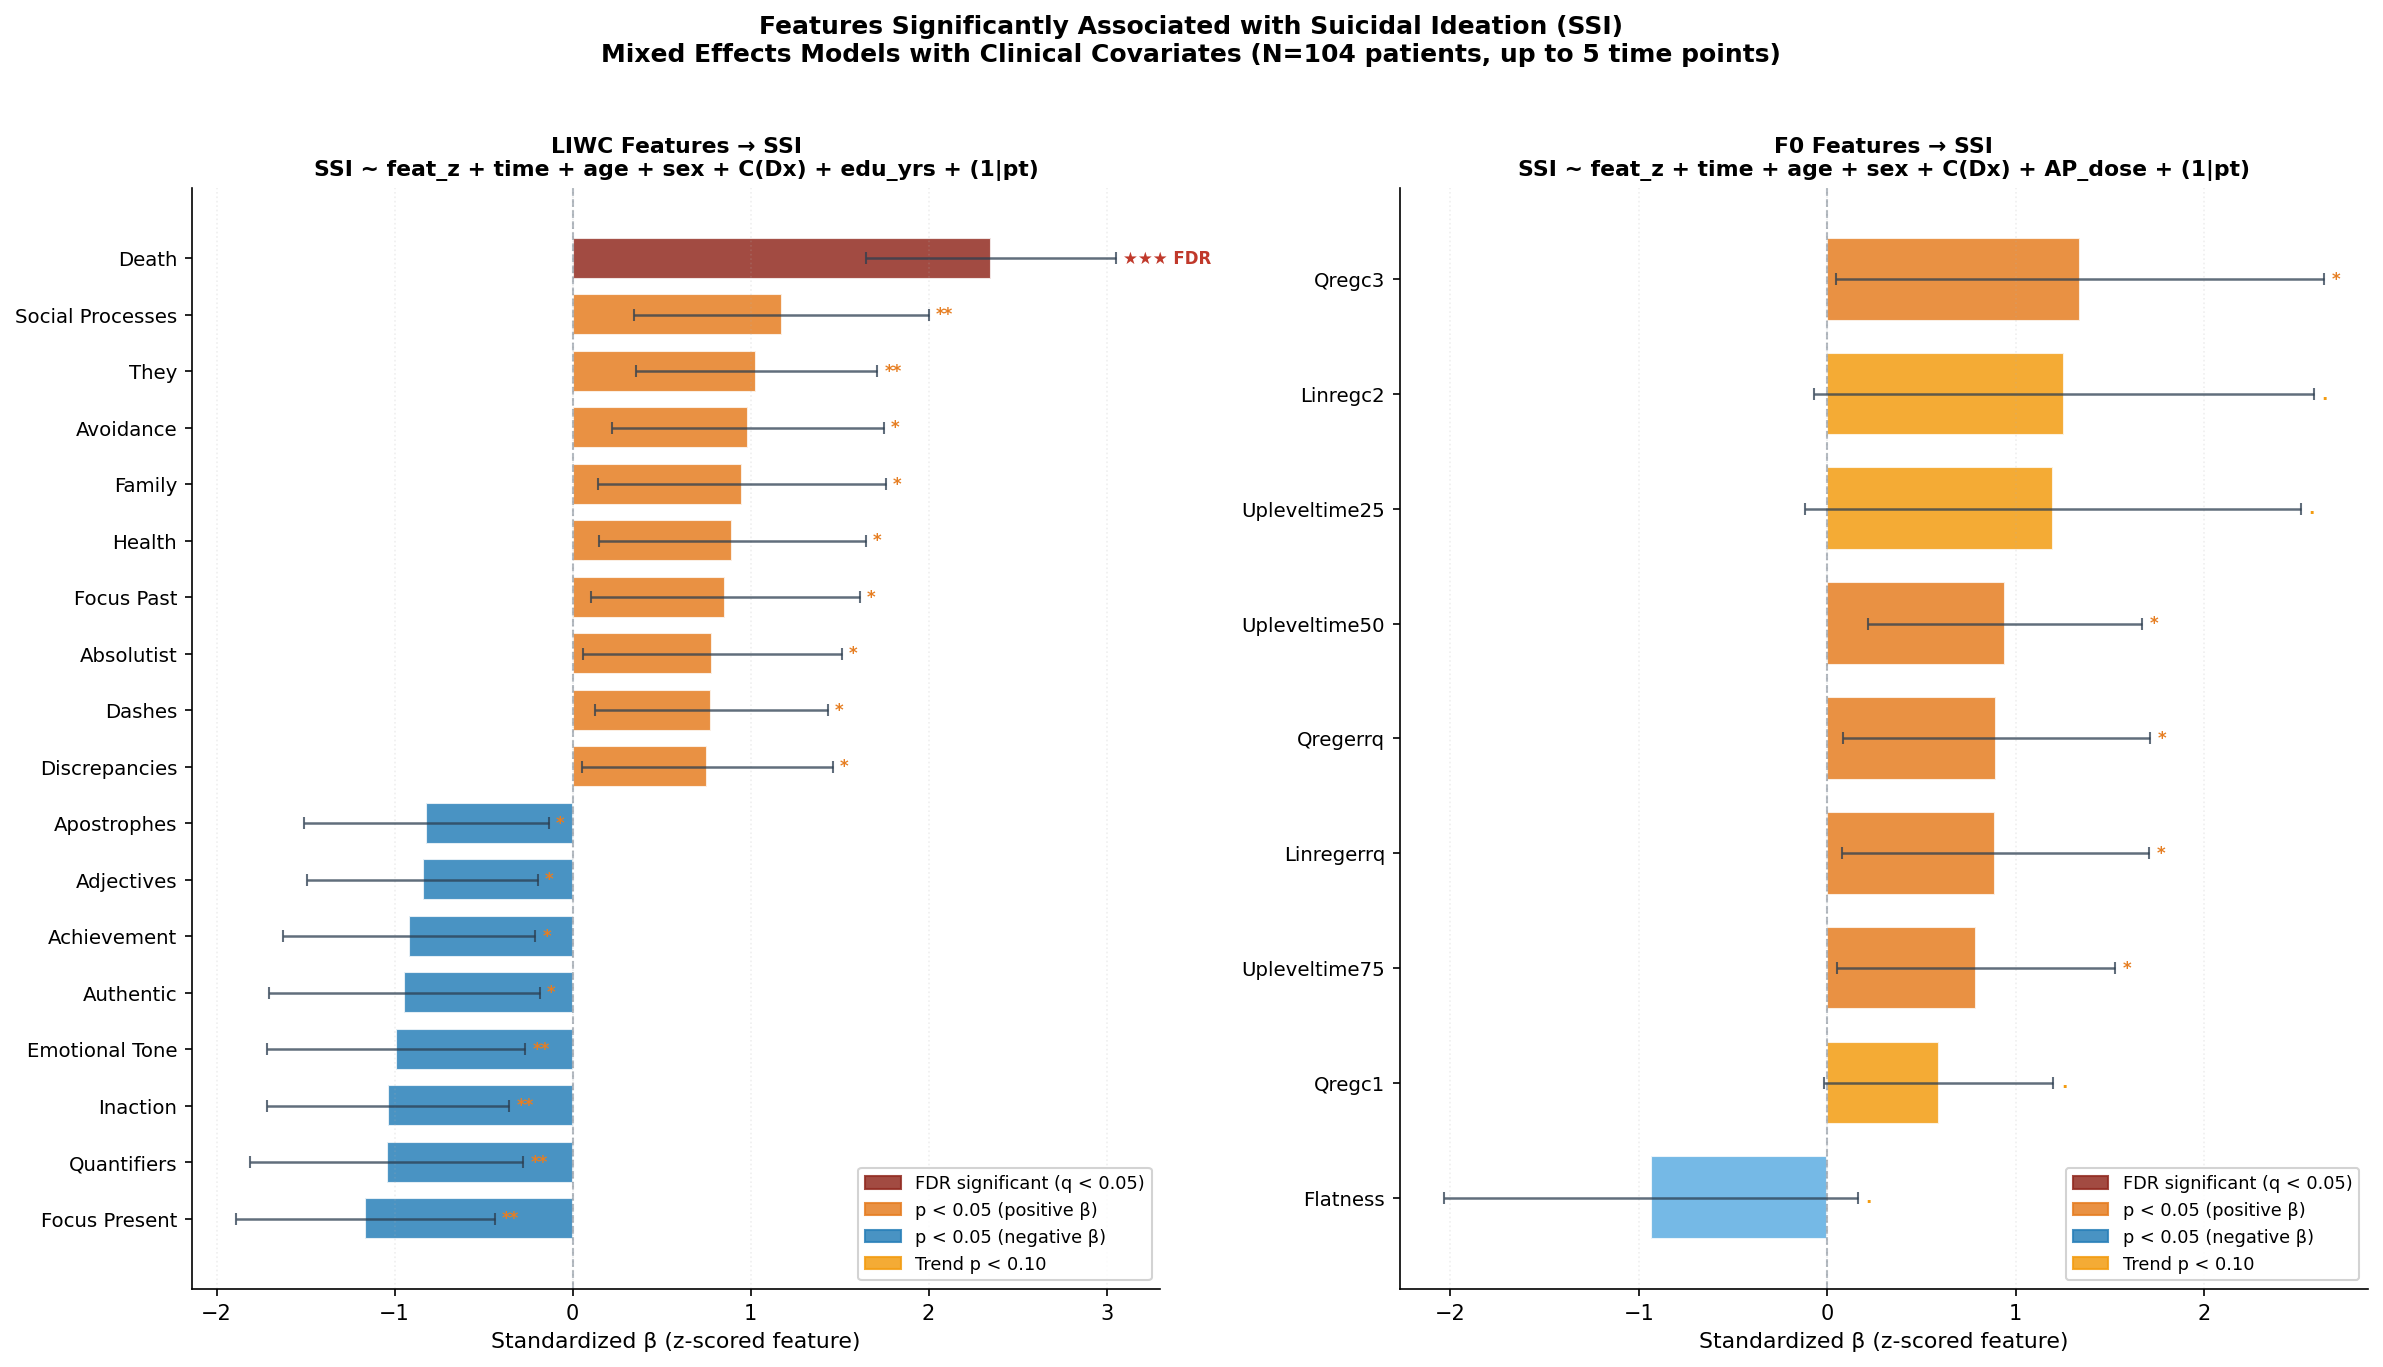
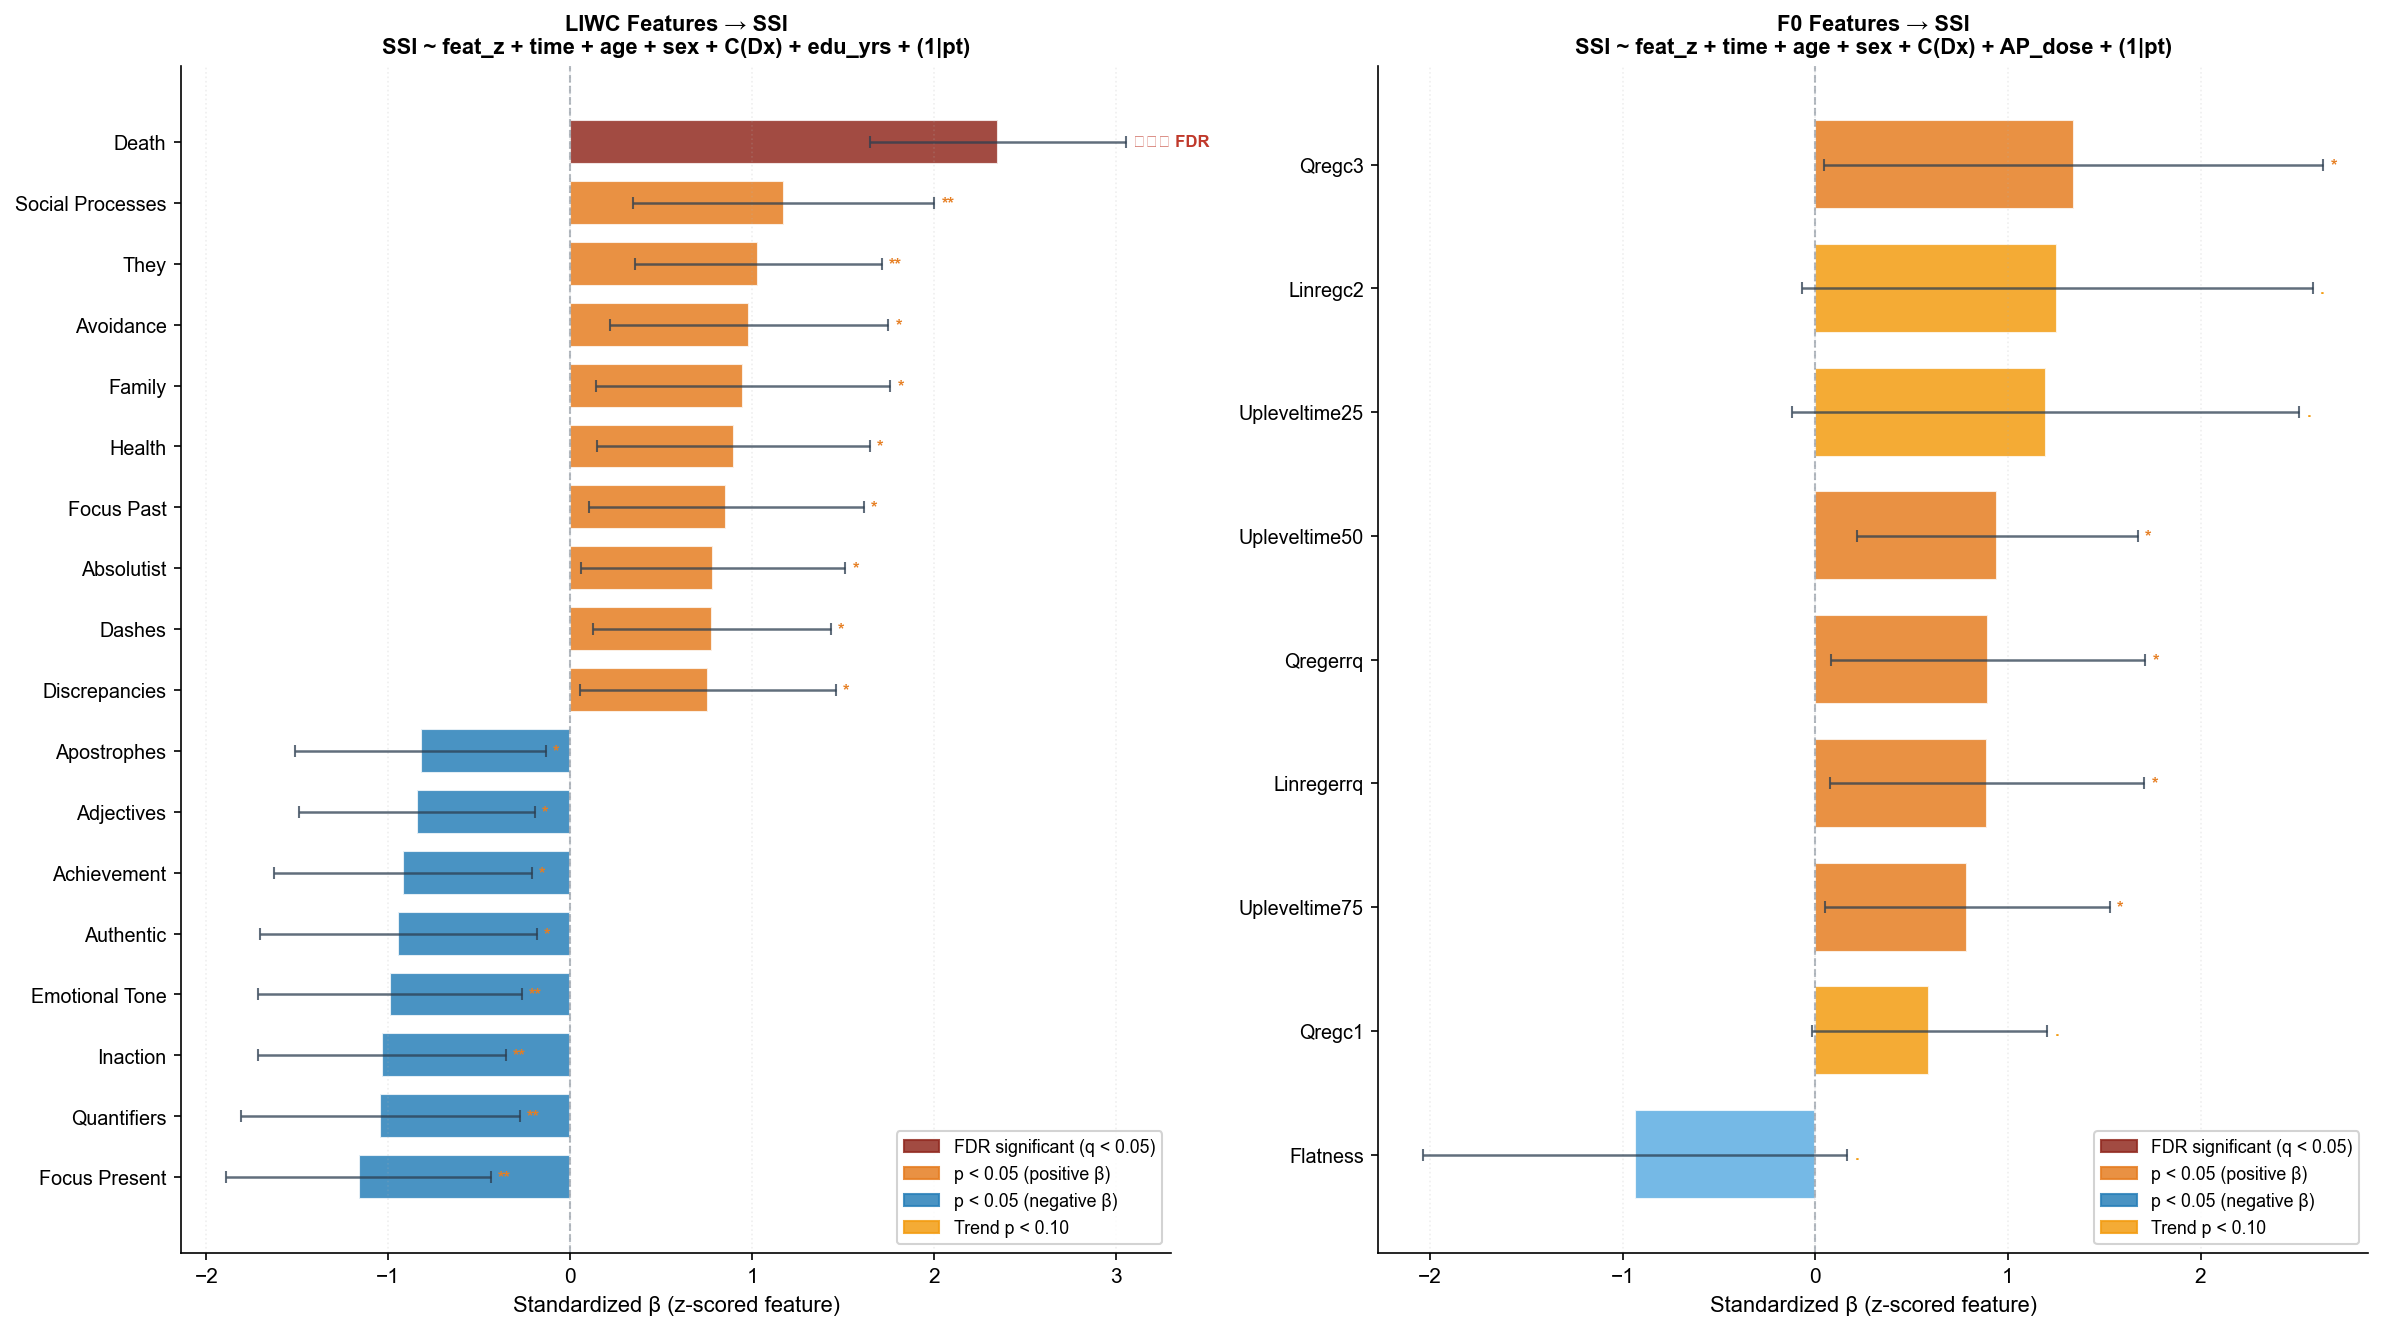
Fig1: Arial font, remove suptitle
https://claude.ai/code/session_01RjnTqhxgmBNbXBjWGBsfdn

diff --git a/plot_fig1_arial.py b/plot_fig1_arial.py
@@ -1,0 +1,96 @@
+"""
+Figure 1 (v2_summary_significant): Arial font, 큰 제목 제거
+"""
+
+import pandas as pd
+import numpy as np
+import matplotlib
+matplotlib.use('Agg')
+import matplotlib.pyplot as plt
+import matplotlib.patches as mpatches
+import matplotlib.font_manager as fm
+import warnings
+warnings.filterwarnings('ignore')
+
+# ── Arial 폰트 등록 ──────────────────────────────
+fm.fontManager.addfont('/usr/share/fonts/truetype/msttcorefonts/Arial.ttf')
+fm.fontManager.addfont('/usr/share/fonts/truetype/msttcorefonts/Arial_Bold.ttf')
+plt.rcParams['font.family'] = 'Arial'
+
+OUT = '/home/user/PRISM-V/results'
+
+f0_res   = pd.read_csv(f'{OUT}/lme_v2_F0_SSI_results.csv')
+liwc_res = pd.read_csv(f'{OUT}/lme_v2_LIWC_SSI_results.csv')
+
+def sig_marker(row):
+    if row['p_fdr'] < 0.001: return '★★★ FDR', '#C0392B'
+    if row['p_fdr'] < 0.01:  return '★★ FDR',  '#C0392B'
+    if row['p_fdr'] < 0.05:  return '★ FDR',   '#C0392B'
+    if row['p_value'] < 0.001: return '***', '#E67E22'
+    if row['p_value'] < 0.01:  return '**',  '#E67E22'
+    if row['p_value'] < 0.05:  return '*',   '#E67E22'
+    if row['p_value'] < 0.10:  return '.',   '#F39C12'
+    return '', '#BDC3C7'
+
+def bar_color(row):
+    if row['p_fdr'] < 0.05:   return '#922B21'
+    if row['p_value'] < 0.05: return '#E67E22' if row['coef'] > 0 else '#2980B9'
+    if row['p_value'] < 0.10: return '#F39C12' if row['coef'] > 0 else '#5DADE2'
+    return '#BDC3C7'
+
+legend_patches = [
+    mpatches.Patch(color='#922B21', alpha=0.85, label='FDR significant (q < 0.05)'),
+    mpatches.Patch(color='#E67E22', alpha=0.85, label='p < 0.05 (positive β)'),
+    mpatches.Patch(color='#2980B9', alpha=0.85, label='p < 0.05 (negative β)'),
+    mpatches.Patch(color='#F39C12', alpha=0.85, label='Trend p < 0.10'),
+]
+
+fig, axes = plt.subplots(1, 2, figsize=(16, 9))
+
+panels = [
+    (liwc_res[liwc_res['p_value'] < 0.05].sort_values('coef'), 'LIWC',
+     'SSI ~ feat_z + time + age + sex + C(Dx) + edu_yrs + (1|pt)'),
+    (f0_res[f0_res['p_value'] < 0.10].sort_values('coef'), 'F0',
+     'SSI ~ feat_z + time + age + sex + C(Dx) + AP_dose + (1|pt)')
+]
+
+for ax, (res_sorted, ftype, subtitle) in zip(axes, panels):
+    if len(res_sorted) == 0:
+        ax.text(0.5, 0.5, 'No significant features', ha='center', va='center', fontsize=12)
+        ax.set_title(ftype)
+        continue
+
+    y = np.arange(len(res_sorted))
+    clrs = [bar_color(r) for _, r in res_sorted.iterrows()]
+
+    ax.barh(y, res_sorted['coef'], color=clrs, alpha=0.85, edgecolor='white', height=0.72)
+    ax.errorbar(res_sorted['coef'], y,
+                xerr=[res_sorted['coef'] - res_sorted['CI_lower'],
+                      res_sorted['CI_upper'] - res_sorted['coef']],
+                fmt='none', ecolor='#2C3E50', elinewidth=1.2, capsize=3, alpha=0.75)
+    ax.axvline(0, color='#2C3E50', lw=1, ls='--', alpha=0.35)
+
+    raw_labels = list(res_sorted['feature'])
+    cleaned = [r.replace('liwc_','').replace('F0final_sma_','').replace('_',' ').title()
+               for r in raw_labels]
+    ax.set_yticks(y)
+    ax.set_yticklabels(cleaned, fontsize=9.5)
+
+    for i, (_, row) in enumerate(res_sorted.iterrows()):
+        m, c = sig_marker(row)
+        if m:
+            ax.text(row['CI_upper'] + 0.04, i, m, va='center', fontsize=8,
+                    color=c, fontweight='bold')
+
+    ax.set_xlabel('Standardized β (z-scored feature)', fontsize=10.5)
+    ax.set_title(f'{ftype} Features → SSI\n{subtitle}', fontsize=10.5, fontweight='bold')
+    ax.legend(handles=legend_patches, fontsize=8.5, loc='lower right', framealpha=0.85)
+    ax.grid(axis='x', alpha=0.2, ls=':')
+    ax.spines['top'].set_visible(False)
+    ax.spines['right'].set_visible(False)
+
+# 큰 제목 없음
+plt.tight_layout()
+plt.savefig(f'{OUT}/v2_summary_significant.png', dpi=150, bbox_inches='tight')
+plt.close()
+print("✓ v2_summary_significant.png (Arial, no suptitle)")
